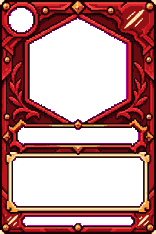
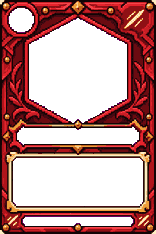
Ki: só o valor atual na bola e custo preenchendo o círculo da carta
- Bola de Ki da batalha mostra só o Ki atual, centralizado, sem o rótulo
- Borda rosada em volta dos buracos das molduras removida
- Círculo do custo medido na moldura reduzida: azul cobre 100% e centralizado

Claude-Session: https://claude.ai/code/session_01KsrbKTnMTvHJraSx6JEtdv

diff --git a/tools/process-frames.ts b/tools/process-frames.ts
@@ -139,11 +139,49 @@ async function frame(file: string, outName: string, transparentHoles: boolean) {
     out[i * 4] = r; out[i * 4 + 1] = g; out[i * 4 + 2] = b;
     out[i * 4 + 3] = transparentHoles && pinkish ? 0 : 255;
   }
+  // A redução mistura o magenta com a moldura e deixa uma borda rosada em volta dos buracos.
+  // Os pixels rosados vizinhos de um buraco também viram buraco (algumas passadas).
+  if (transparentHoles) {
+    for (let pass = 0; pass < 3; pass++) {
+      const grow: number[] = [];
+      for (let y = 1; y < CARD_H - 1; y++)
+        for (let x = 1; x < CARD_W - 1; x++) {
+          const i = y * CARD_W + x;
+          if (out[i * 4 + 3] === 0) continue;
+          const r = out[i * 4], g = out[i * 4 + 1], b = out[i * 4 + 2];
+          const rosado = r > 140 && b > 120 && g < 150 && r - g > 60 && b - g > 40;
+          if (!rosado) continue;
+          if ([i - 1, i + 1, i - CARD_W, i + CARD_W].some((j) => out[j * 4 + 3] === 0)) grow.push(i);
+        }
+      for (const i of grow) out[i * 4 + 3] = 0;
+    }
+  }
   await sharp(out, { raw: { width: CARD_W, height: CARD_H, channels: 4 } })
     .png({ palette: true, colors: 96, dither: 0 })
     .toFile(join(OUT, `${outName}.png`));
   console.log(`  ✓ ${outName}`);
-  return { data, W: info.width, H: info.height };
+  return { data, W: info.width, H: info.height, alpha: out };
+}
+
+/** Buraco (transparente) da moldura reduzida que contém o centro de `guess`: a medida exata usada no jogo. */
+function holeAround(alpha: Buffer, guess: Rect): Rect {
+  const seed = Math.round(guess.y + guess.h / 2) * CARD_W + Math.round(guess.x + guess.w / 2);
+  if (alpha[seed * 4 + 3] !== 0) return guess;
+  const seen = new Uint8Array(CARD_W * CARD_H);
+  let x0 = CARD_W, y0 = CARD_H, x1 = 0, y1 = 0;
+  const st = [seed];
+  while (st.length) {
+    const i = st.pop()!;
+    const x = i % CARD_W, y = (i - x) / CARD_W;
+    if (seen[i] || alpha[i * 4 + 3] !== 0 || x > guess.x + guess.w + 6 || y > guess.y + guess.h + 6) continue;
+    seen[i] = 1;
+    x0 = Math.min(x0, x); y0 = Math.min(y0, y); x1 = Math.max(x1, x); y1 = Math.max(y1, y);
+    if (x > 0) st.push(i - 1);
+    if (x < CARD_W - 1) st.push(i + 1);
+    if (y > 0) st.push(i - CARD_W);
+    if (y < CARD_H - 1) st.push(i + CARD_W);
+  }
+  return { x: x0, y: y0, w: x1 - x0 + 1, h: y1 - y0 + 1 };
 }
 
 const scaleRect = (r: Rect, W: number, H: number): Rect => ({
@@ -157,7 +195,7 @@ async function main() {
   mkdirSync(OUT, { recursive: true });
   const layout: Record<string, Record<string, Rect>> = {};
   for (const [type, file] of Object.entries(FRAMES)) {
-    const { data, W, H } = await frame(file, type, true);
+    const { data, W, H, alpha } = await frame(file, type, true);
     const regs = regions(data, W, H).sort((a, b) => a.y - b.y);
     // Ignora pedaços pequenos (ex.: um canto) e fica com as 4 áreas principais por altura.
     const main4 = regs.filter((r) => r.w > W * 0.4).sort((a, b) => a.y - b.y);
@@ -165,7 +203,7 @@ async function main() {
     const [top, name, text, typeStrip] = main4;
     const { cost, art } = splitTop(data, W, top);
     layout[type] = {
-      cost: scaleRect(cost, W, H),
+      cost: holeAround(alpha, scaleRect(cost, W, H)),
       art: scaleRect(art, W, H),
       name: scaleRect(name, W, H),
       text: scaleRect(text, W, H),

diff --git a/client/src/scenes/Battle.ts b/client/src/scenes/Battle.ts
@@ -93,8 +93,8 @@ export class BattleScene extends Phaser.Scene {
     const ki = this.add.graphics().setDepth(4);
     ki.fillStyle(COLORS.outline).fillCircle(90, 590, 52);
     ki.fillStyle(0x1f4f8a).fillCircle(90, 590, 47);
-    ki.fillStyle(COLORS.ki).fillCircle(90, 586, 42);
-    ki.fillStyle(0x8fd0ff, 0.8).fillCircle(76, 570, 9);
+    ki.fillStyle(COLORS.ki).fillCircle(90, 590, 42);
+    ki.fillStyle(0x8fd0ff, 0.8).fillCircle(70, 570, 7);
 
     const off = session.net.on((msg) => this.onMessage(msg));
     this.events.once(Phaser.Scenes.Events.SHUTDOWN, off);
@@ -182,8 +182,8 @@ export class BattleScene extends Phaser.Scene {
     this.drawQueues(view);
     this.drawHand(view);
 
-    this.hud.add(centerInk(txt(this, 0, 0, `${view.me.ki}/${view.me.maxKi}`, 30, '#ffffff', { fontFamily: NUM_FONT, stroke: '#0d0a14', strokeThickness: 4 }), 90, 584));
-    this.hud.add(txt(this, 90, 625, 'Ki', 14, '#d8ecff'));
+    // Só o Ki que o jogador tem agora, no centro da bola.
+    this.hud.add(centerInk(txt(this, 0, 0, String(view.me.ki), 44, '#ffffff', { fontFamily: NUM_FONT, stroke: '#0d0a14', strokeThickness: 5 }), 90, 590));
     this.hud.add(txt(this, 90, 670, `Compra ${view.me.drawCount}  ·  Descarte ${view.me.discardCount}`, 13, COLORS.textDim));
 
     const canAct = view.phase === 'planning' && !view.me.ready && !this.animating;

diff --git a/client/src/cardFrames.generated.ts b/client/src/cardFrames.generated.ts
@@ -36,9 +36,9 @@ export const FRAME_LAYOUT = {
   },
   "skill": {
     "cost": {
-      "x": 7,
+      "x": 6,
       "y": 8,
-      "w": 25,
+      "w": 26,
       "h": 24
     },
     "art": {
@@ -71,7 +71,7 @@ export const FRAME_LAYOUT = {
       "x": 7,
       "y": 8,
       "w": 25,
-      "h": 25
+      "h": 24
     },
     "art": {
       "x": 29,
